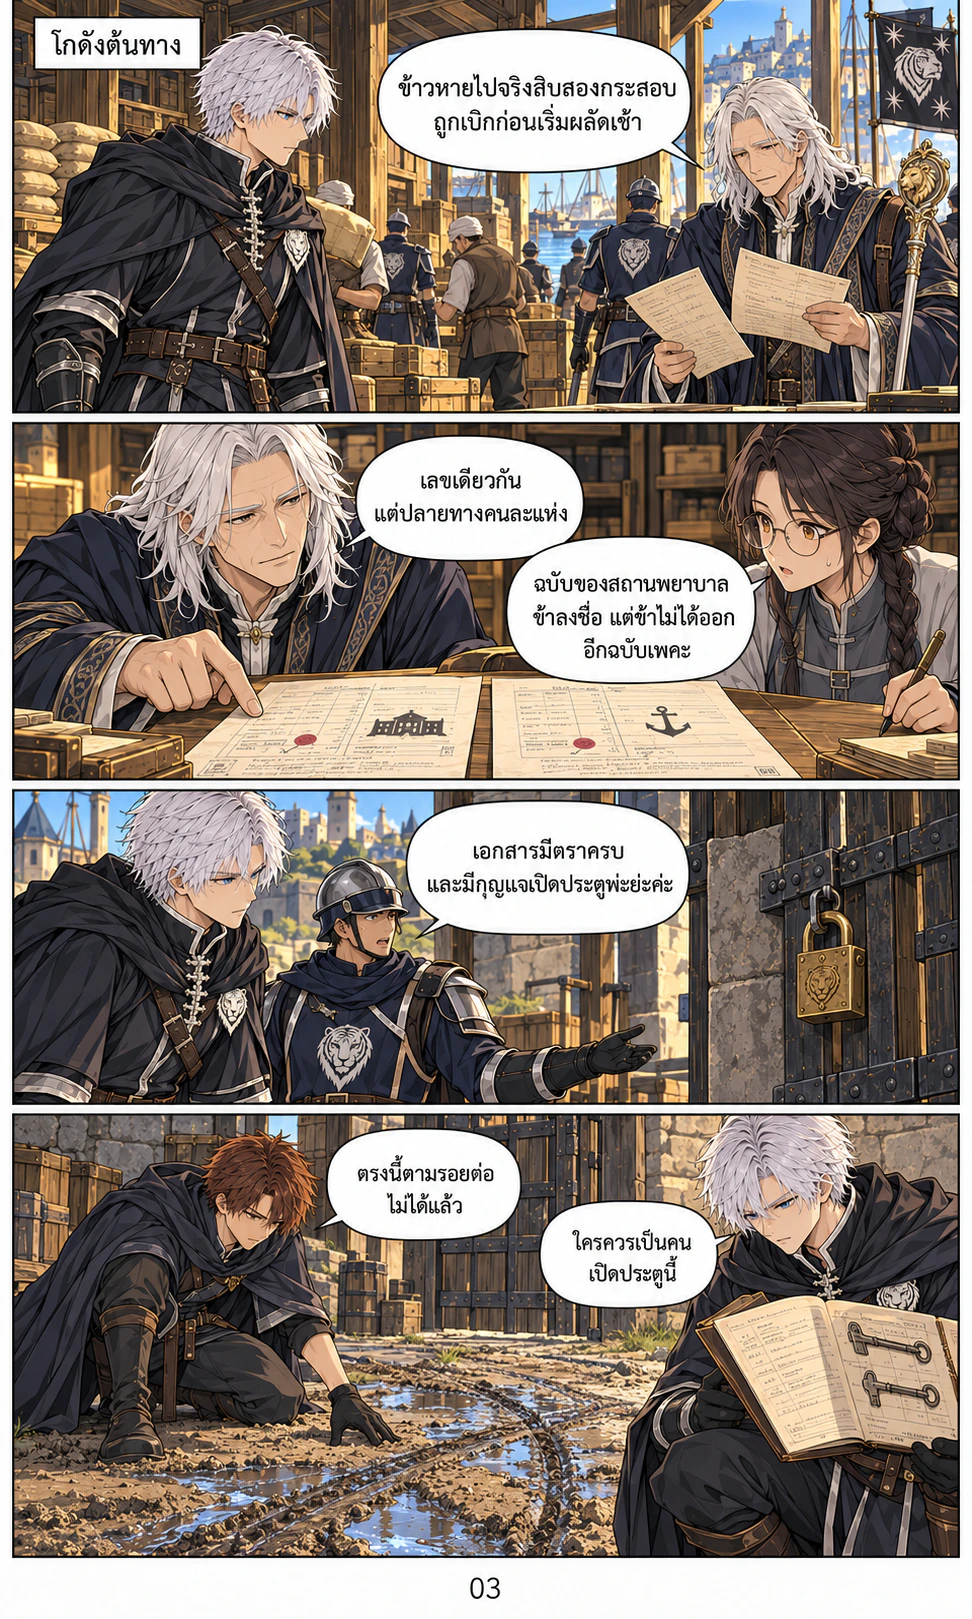
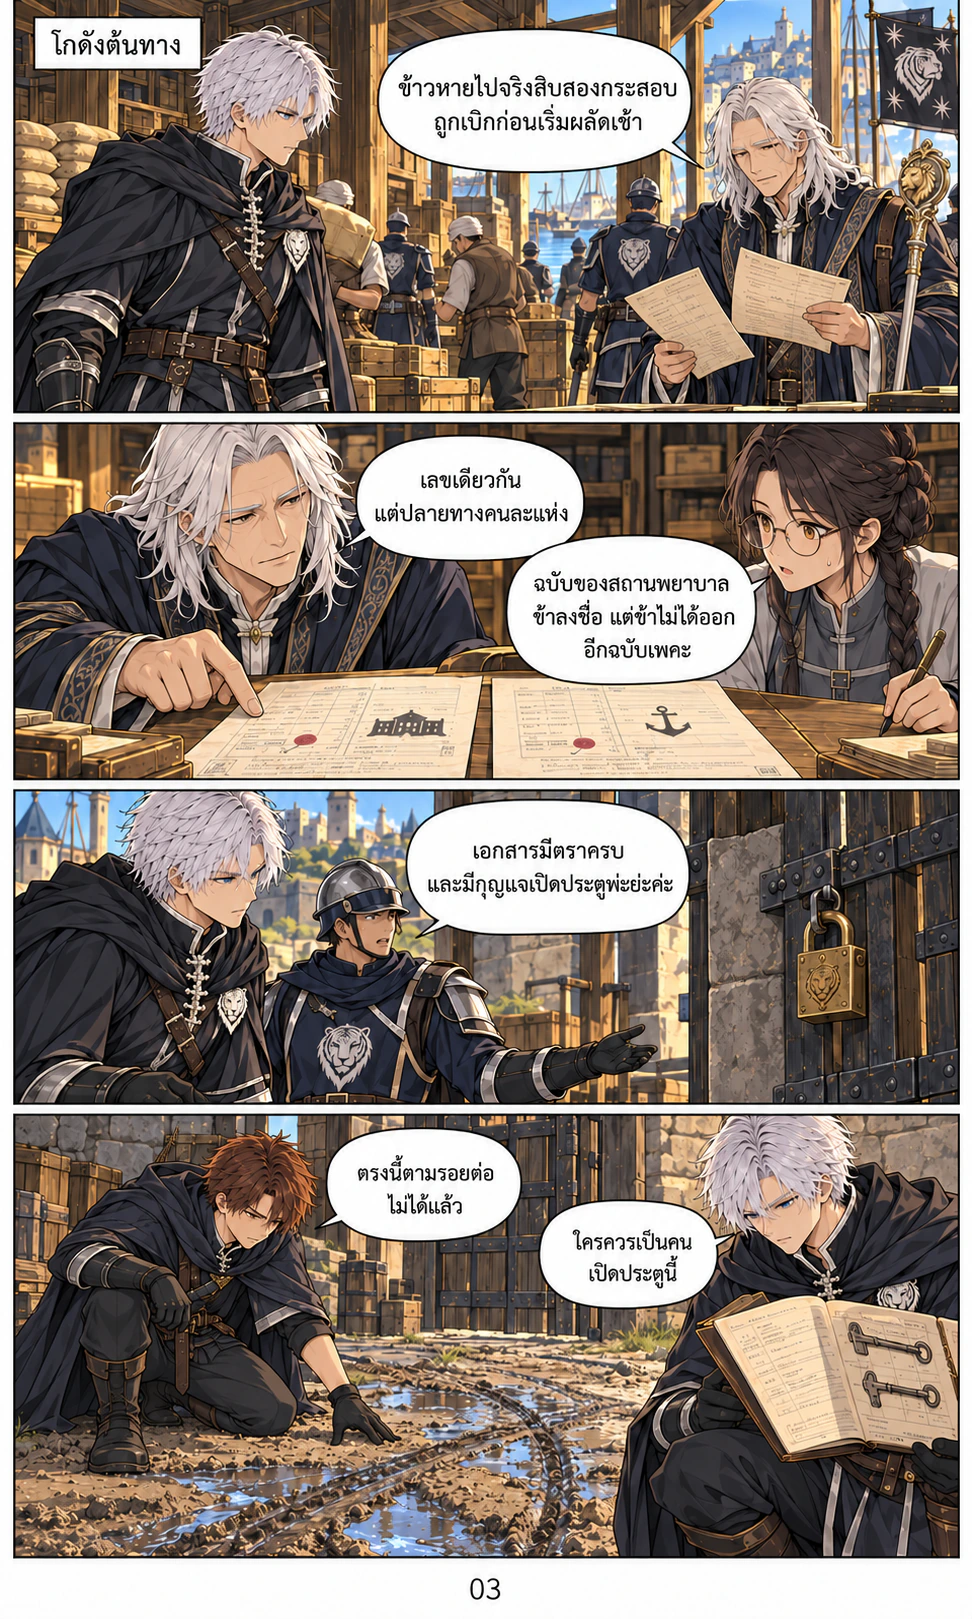
Clarify Rowan kneeling anatomy and warehouse key in comic 16

diff --git a/comics.js b/comics.js
@@ -1881,13 +1881,13 @@ window.ASTRAEL_COMICS = {
         "description": "การ์ตูนตอนที่ 16 หน้า 2 — ห้องที่ปิดม่าน"
       },
       {
-        "src": "./assets/comic/chapter-16/page-03.webp?v=0e0e36fc3df5",
+        "src": "./assets/comic/chapter-16/page-03.webp?v=d1825d016a7b",
         "width": 972,
         "height": 1619,
         "description": "การ์ตูนตอนที่ 16 หน้า 3 — ห้องที่ปิดม่าน"
       },
       {
-        "src": "./assets/comic/chapter-16/page-04.webp?v=cd7cbecc02d2",
+        "src": "./assets/comic/chapter-16/page-04.webp?v=b1b2a56a2c8e",
         "width": 971,
         "height": 1620,
         "description": "การ์ตูนตอนที่ 16 หน้า 4 — ห้องที่ปิดม่าน"

diff --git a/index.html b/index.html
@@ -80,7 +80,7 @@
     </main>
 
     <script src="./chapters.js?v=novel-100"></script>
-    <script src="./comics.js?v=comic-20-20261020"></script>
+    <script src="./comics.js?v=comic16-fixes-20261020"></script>
     <script src="./app.js?v=novel-100"></script>
   </body>
 </html>
